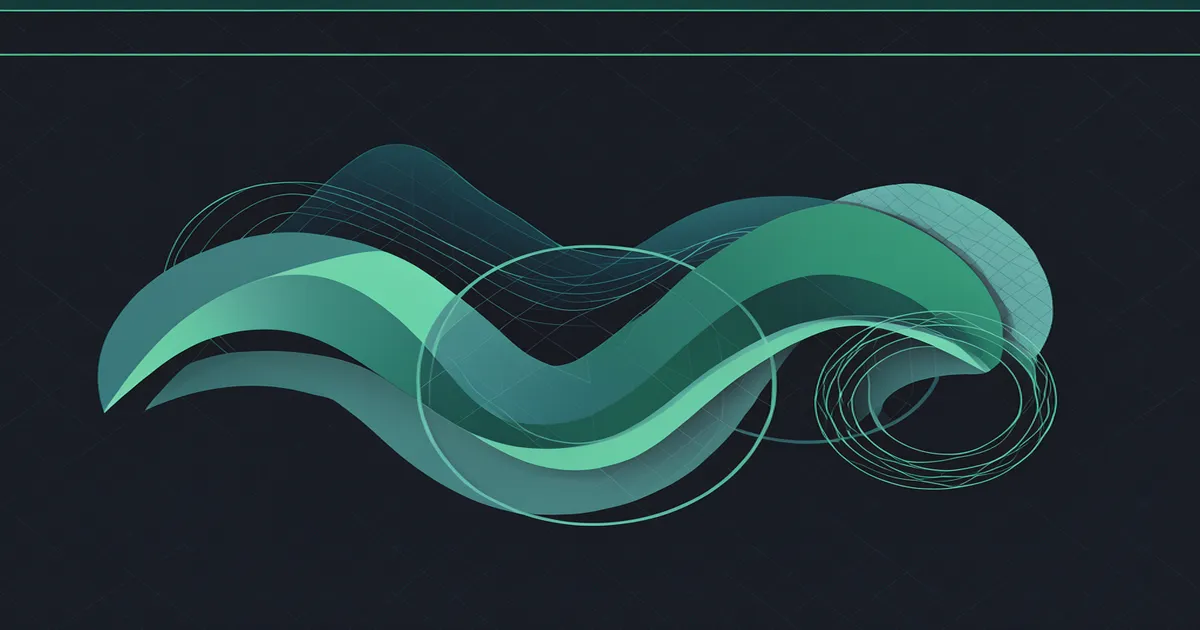
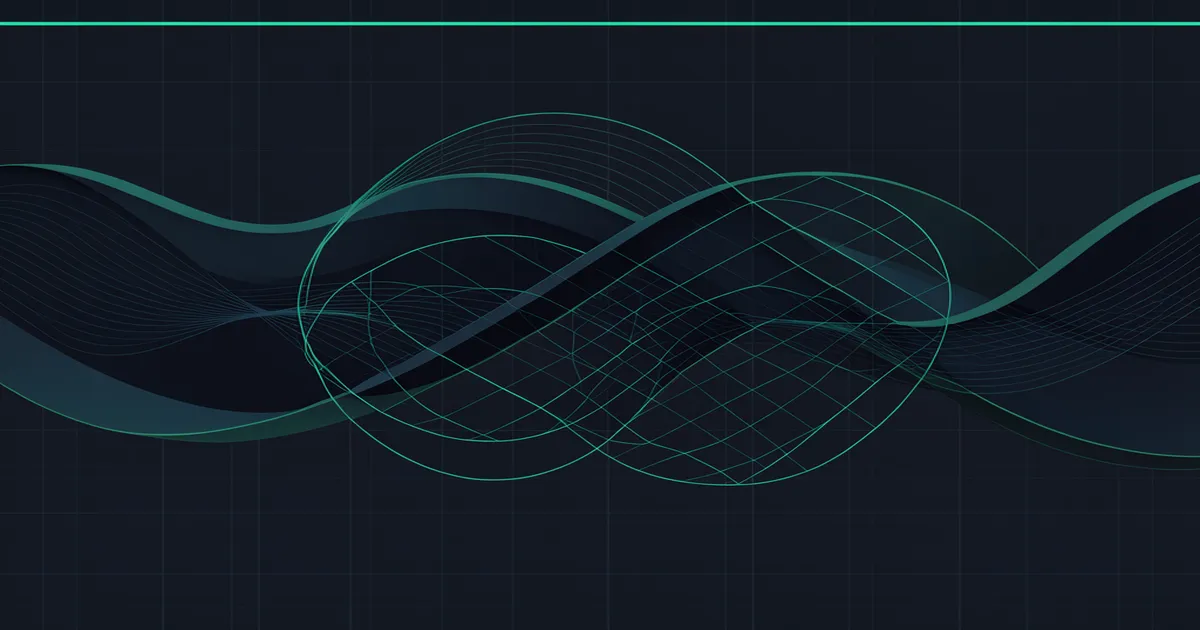
fix(scripts): centered composition for hero/OG images
- Hapus 'right side' placement dari hero prompt -> 'centered, fill the frame'
- OG prompt juga di-balance: 'centered across full canvas'
- Tambah explicit: 'no empty black areas on any side'
- Image regenerated: content fills full width (0px margins)

diff --git a/scripts/generate-images.py b/scripts/generate-images.py
@@ -150,27 +150,27 @@ DEFAULT_VISUAL = CATEGORY_VISUALS["Journal"]
 def build_og_prompt(_title: str, category: str, _description: str = "") -> str:
     visual = CATEGORY_VISUALS.get(category, DEFAULT_VISUAL)
 
-    return f"""Abstract geometric shapes, clean lines, and layered forms on a dark background (1200x630).
+    return f"""Abstract geometric shapes, clean lines, and layered forms filling the entire dark background (1200x630).
 ABSOLUTELY NO TEXT, NO LETTERS, NO WORDS, NO NUMBERS - pure visual only.
 Background: solid dark (#0F172A) with subtle grid pattern.
 Thin {visual['palette']} line near top edge as accent.
-Prominent abstract elements in muted teal and green tones: {visual['icon']}
-Arrangement: {visual['theme']}
+Abstract composition centered across full canvas: {visual['icon']}
+Balanced layout: {visual['theme']}
 Style: flat colors, crisp geometric shapes, dark hacker aesthetic, no gradients, no humans.
-Make the abstract shapes clearly visible with good contrast - this should look like an album art, not an empty dark rectangle."""
+The composition must be CENTERED and fill the frame - no empty black areas on any side."""
 
 
 def build_hero_prompt(_title: str, category: str, _description: str = "") -> str:
     visual = CATEGORY_VISUALS.get(category, DEFAULT_VISUAL)
 
-    return f"""Abstract geometric shapes, clean lines, and layered forms on a dark background (800x400).
+    return f"""Abstract geometric shapes, clean lines, and layered forms filling the entire dark background (800x400).
 ABSOLUTELY NO TEXT, NO LETTERS, NO WORDS, NO NUMBERS - pure visual only.
 Background: solid dark (#0F172A) with subtle grid pattern.
 Thin {visual['palette']} line near top edge as accent.
-Abstract geometric shapes stacked on the right side: {visual['icon']}
-Arrangement: {visual['theme']}
+Abstract geometric shapes spread across the full width: {visual['icon']}
+Balanced layout: {visual['theme']}
 Style: flat colors, crisp geometric shapes, dark hacker aesthetic, no gradients, no humans.
-Make the abstract shapes clearly visible with good contrast - this should look like an album art, not an empty dark rectangle."""
+The composition must be CENTERED and fill the frame - no empty black areas on any side."""
 
 
 def main():
